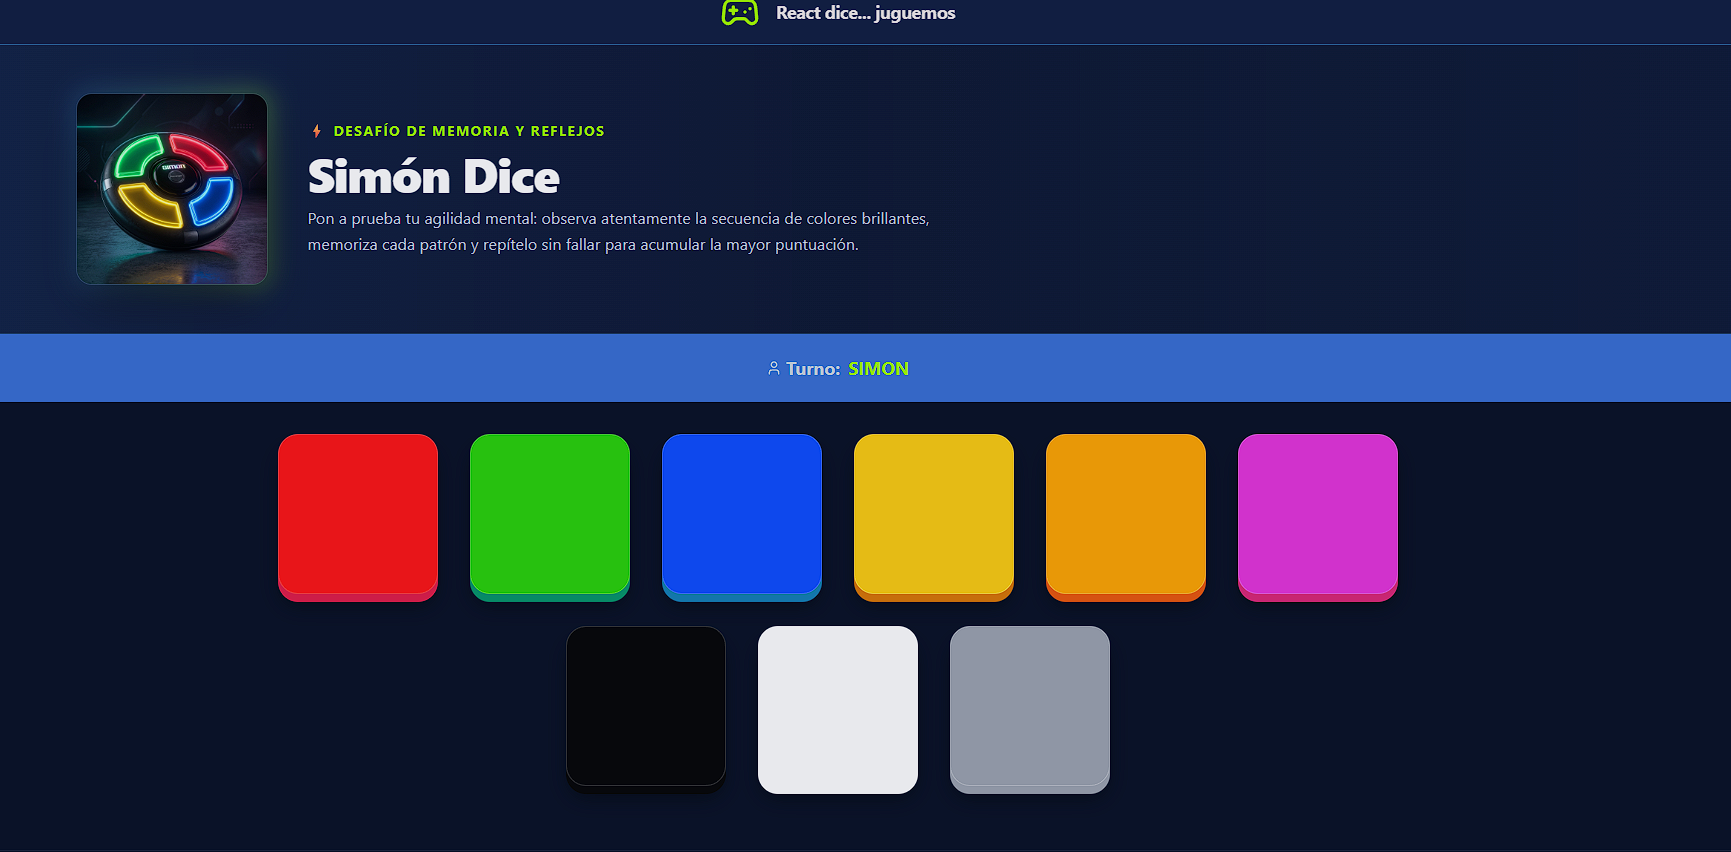
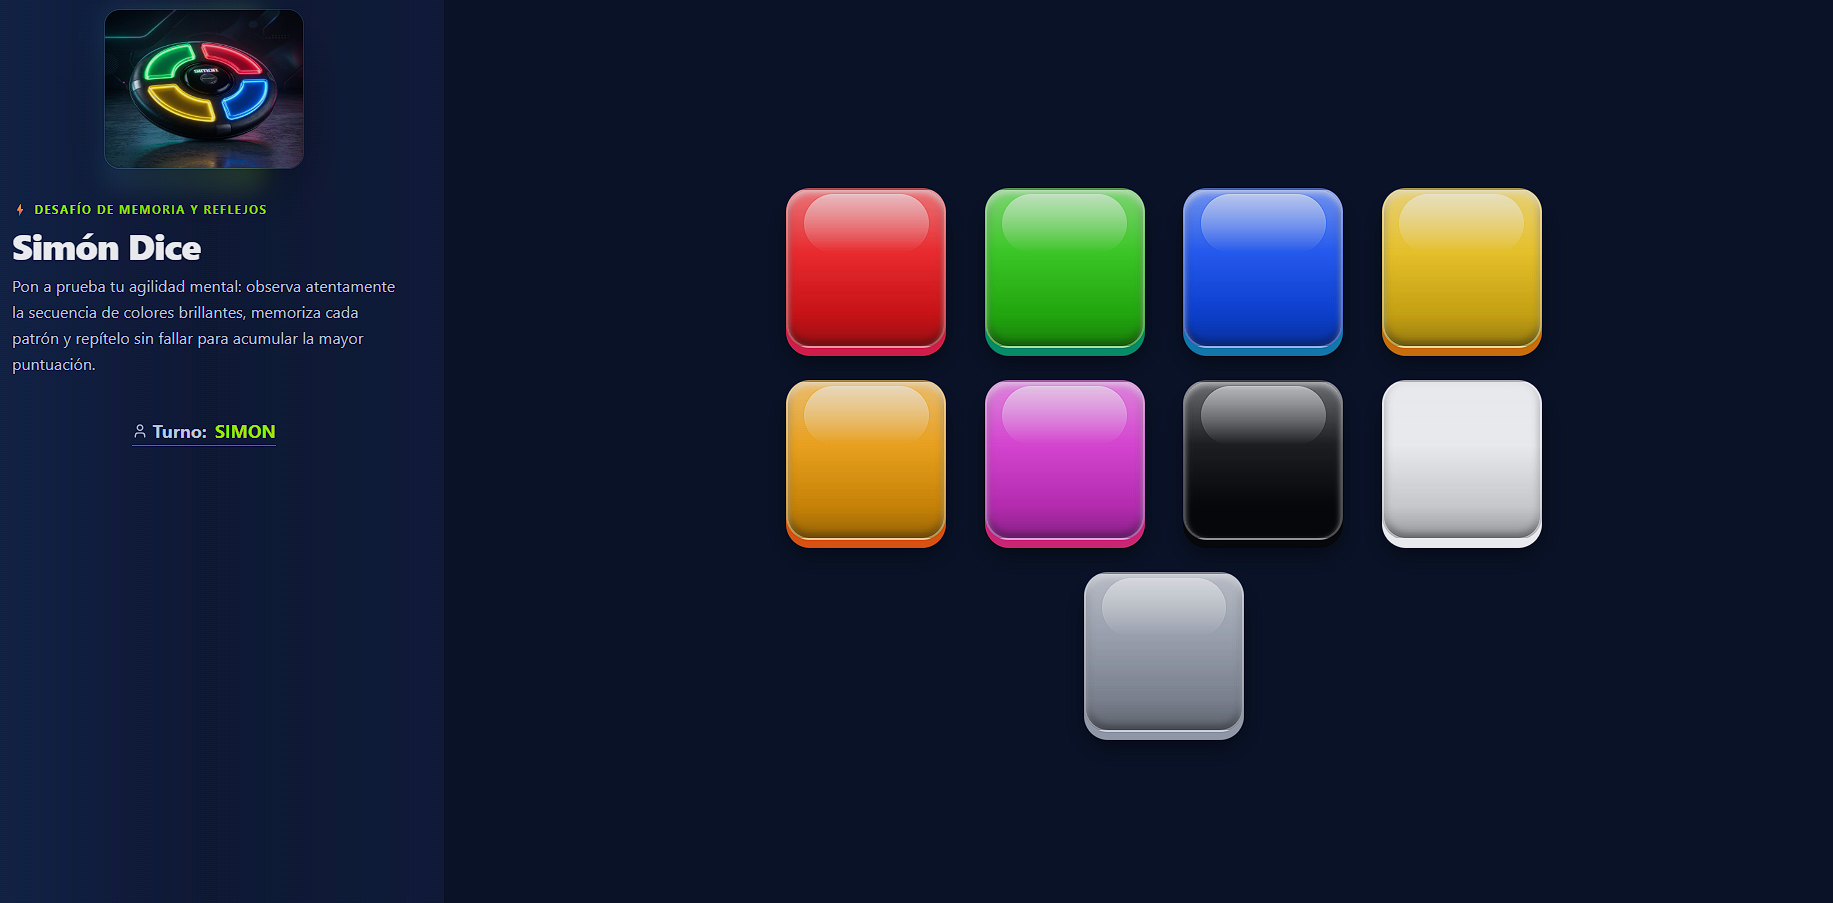
update a proyecto en botones, y responsive

diff --git a/src/App.tsx b/src/App.tsx
@@ -1,5 +1,3 @@
-import { Navbar } from '@/components/Navbar';
-import { Footer } from '@/components/Footer';
 import Game from './components/Game';
 import { useGameContext } from '@/store/GameContext'
 
@@ -12,64 +10,72 @@ export function App() {
 
 
   return (
-    <div className="min-h-screen bg-primary-dark text-slate-100 selection:bg-blue-500 selection:text-white flex flex-col">
-      <Navbar />
+    <>
 
-      {/* HERO */}
-      <section className="relative overflow-hidden bg-linear-to-r from-quaternary/20 via-primary/40 to-quaternary/10 border-b border-secondary/30 px-[5%] md:px-[10%] py-8 md:py-12 flex flex-col md:flex-row items-center gap-6 md:gap-10">
-        <figure className="relative shrink-0 group">
-          <div className="absolute -inset-1 rounded-2xl bg-linear-to-r from-secondary to-tertiary opacity-30 blur-md group-hover:opacity-60 transition duration-500" />
-          <img
-            src={simondiceimage}
-            alt="Simón Dice Juego de Memoria"
-            className="relative w-36 h-36 sm:w-44 sm:h-44 md:w-48 md:h-48 object-cover rounded-2xl border border-white/10 shadow-2xl shadow-black/60"
-          />
-        </figure>
-        <article className="flex flex-col gap-2 text-center md:text-left max-w-2xl">
-          <p className="text-xs sm:text-sm font-bold uppercase tracking-widest text-tertiary">
-            ⚡ Desafío de Memoria y Reflejos
-          </p>
-          <h1 className="text-3xl sm:text-4xl md:text-5xl font-black tracking-tight text-white drop-shadow-sm">
-            Simón Dice
-          </h1>
-          <p className="text-sm sm:text-base text-slate-300 leading-relaxed">
-            Pon a prueba tu agilidad mental: observa atentamente la secuencia de colores brillantes, memoriza cada patrón y repítelo sin fallar para acumular la mayor puntuación.
-          </p>
-        </article>
-      </section>
-      {/* INFO GAME */}
-      {
-        isGameInit && (
-          <section>
-            <div className="flex  gap-8 bg-quaternary py-5 rounded-xl justify-center">
 
-              <p
-                className="flex items-center gap-1 font-bold text-lg text-slate-300 hover:text-white transition-colors"
-              >
-                <User className='w-4 h-4' />
-                Turno: <span className="ml-1 text-tertiary uppercase">{currentPlayer?.player} </span>
+
+      <main className="lg:min-h-screen min-w-screen  grid lg:grid-cols-8 bg-primary-dark text-slate-100">
+
+        {/* HERO */}
+        <section className="lg:col-span-2 xl:col-span-2 lg:max-w-lg relative overflow-hidden bg-linear-to-r from-quaternary/20 via-primary/40 to-quaternary/10 border-b border-secondary/30 px-[5%] md:px-[10%] py-8 flex flex-col items-center gap-6 md:gap-10">
+          <section className='sm:flex gap-4 items-center lg:flex-col'>
+            <figure className="relative group flex justify-center">
+              <div className="absolute w-30 h-30 sm:w-45 sm:h-45 md:w-40 inset-0 rounded-2xl bg-linear-to-r from-secondary to-tertiary opacity-30 blur-md group-hover:opacity-60 transition duration-500" />
+              <img
+                src={simondiceimage}
+                alt="Simón Dice Juego de Memoria"
+                className="relative w-30 h-30 sm:w-45 sm:h-45 md:w-90 md:h-40 lg:w-50 rounded-2xl border border-white/10 shadow-2xl shadow-black/60"
+              />
+            </figure>
+            <article className="flex flex-col mt-4 gap-2 text-center md:text-left ">
+              <p className="text-xs  font-bold uppercase tracking-widest text-tertiary">
+                ⚡ Desafío de Memoria y Reflejos
               </p>
-              {
-                currentPlayer?.player != 'simon' &&
-                <p
-                  className="flex items-center gap-1 text-lg font-bold text-slate-300 hover:text-white transition-colors"
-                >
-                  <Trophy className='w-4 h-4' />
-                  Puntos: <span className="ml-1 text-tertiary">{currentPlayer?.points} </span>
-                </p>
-              }
-            </div>
+              <h1 className="text-3xl sm:text-4xl  font-black tracking-tight text-white drop-shadow-sm">
+                Simón Dice
+              </h1>
+              <p className="hidden md:block text-sm sm:text-base text-slate-300 leading-relaxed">
+                Pon a prueba tu agilidad mental: observa atentamente la secuencia de colores brillantes, memoriza cada patrón y repítelo sin fallar para acumular la mayor puntuación.
+              </p>
+            </article>
           </section>
+          {/* INFO GAME */}
+          {
+            isGameInit && (
+              <section>
+                <div className="flex lg:flex-col xl:flex-row gap-8 bg-quinary  justify-center border-b border-tertiary/50">
 
-        )
-      }
+                  <p
+                    className="flex items-center gap-1 font-bold text-lg text-slate-300 hover:text-white transition-colors"
+                  >
+                    <User className='w-4 h-4' />
+                    Turno: <span className="ml-1 text-tertiary uppercase">{currentPlayer?.player} </span>
+                  </p>
+                  {
+                    currentPlayer?.player != 'simon' &&
+                    <p
+                      className="flex items-center gap-1 text-lg font-bold text-slate-300 hover:text-white transition-colors"
+                    >
+                      <Trophy className='w-4 h-4' />
+                      Puntos: <span className="ml-1 text-tertiary">{currentPlayer?.points} </span>
+                    </p>
+                  }
+                </div>
+              </section>
 
-      <main className="max-w-7xl mx-auto px-4 sm:px-6 lg:px-8 flex-1 w-full">
-        <Game />
+            )
+          }
+        </section>
+
+        <section className="h-full lg:col-span-6 xl:col-span-6 mx-autow-full flex items-center justify-center ">
+
+          <Game />
+        </section>
+
       </main>
 
-      <Footer />
-    </div>
+
+    </>
   )
 }
 

diff --git a/src/components/PlaceholderIniti.tsx b/src/components/PlaceholderIniti.tsx
@@ -31,41 +31,45 @@ const PlaceholderInit = () => {
 
     return (
         <>
-            <section className='flex flex-col gap-3  w-90% md:w-[90%] mx-auto mt-4'>
-                <div className='flex flex-col gap-2'>
-                    <label className='font-bold text-xl text-center'>Selecciona una dificultad</label>
-                    <select className='bg-primary text-light text-center p-2 rounded-xl w-[80%] md:w-[30%] mx-auto'
-                        defaultValue={'normal'}
-                        onChange={(e) => setLevel(e.target.value as Level)}
-                    >
-                        <option value="easy">Fácil</option>
-                        <option value="normal">Normal</option>
-                        <option value="hard">Dificil</option>
-                        <option value="crazy">Crazy</option>
-                    </select>
-                </div>
+            <section className='flex flex-col gap-3 md:gap-5  mx-auto mt-4'>
+
+                <div className='md:flex justify-center gap-4 md:gap-8 items-center min-w-30 md:min-w-110 '>
+
+                    <div className='flex flex-col gap-2 w-full '>
+                        <label className='font-bold text-xl text-center'>Dificultad</label>
+                        <select className='bg-primary border border-light focus:border-tertiary italic font-bold text-light text-center p-2 rounded-xl mx-auto w-full'
+                            defaultValue={'normal'}
+                            onChange={(e) => setLevel(e.target.value as Level)}
+                        >
+                            <option value="easy">Fácil</option>
+                            <option value="normal">Normal</option>
+                            <option value="hard">Dificil</option>
+                            <option value="crazy">Crazy</option>
+                        </select>
+                    </div>
 
 
-                <div className='flex flex-col gap-2'>
-                    <label className='font-bold text-xl text-center'>¿Cuántos jugadores participarán?</label>
-                    <select className='bg-primary text-light text-center p-2 rounded-xl w-[80%] md:w-[30%] mx-auto'
-                        onChange={(e) => setPlayersNumber(Number(e.target.value))}
-                    >
-                        <option value="1">1</option>
-                        <option value="2">2</option>
-                        <option value="3">3</option>
-                        <option value="4">4</option>
-                    </select>
+                    <div className='flex flex-col gap-2 mx-auto w-full'>
+                        <label className='font-bold text-xl text-center'>Jugadores</label>
+                        <select className='bg-primary border border-light focus:border-tertiary italic font-bold  text-light text-center p-2 rounded-xl w-full mx-auto'
+                            onChange={(e) => setPlayersNumber(Number(e.target.value))}
+                        >
+                            <option value="1">1</option>
+                            <option value="2">2</option>
+                            <option value="3">3</option>
+                            <option value="4">4</option>
+                        </select>
+                    </div>
                 </div>
 
                 <div className='flex flex-col gap-2'>
                     <label className='font-bold text-xl text-center'>{playersNumber > 1 ? 'Ingresen sus nombres' : 'Ingresa tu nombre'} </label>
-                    <div className={`grid grid-cols-1 lg:grid-cols-${playersNumber} gap-4 mx-auto`}>
+                    <div className={`grid grid-cols-1 md:grid-cols-${playersNumber == 1 ? 1 : 2} gap-4 mx-auto`}>
                         {
                             playersNumber > 0 && Array.from({ length: playersNumber }).map((_, idx) => (
                                 <span className='mt-3 relative ' key={idx}>
-                                    <User className='w-4 h-4 top-3 left-1 absolute text-tertiary' />
-                                    <input type="text" value={playersInfo[idx]?.player || ''} onChange={(e) => saveName(e, idx)} placeholder={`Nombre jugador ${idx + 1}`} className='border border-secondary rounded-lg  pl-5 px-2 py-2 text-light text-center bg-primary outline-tertiary' />
+                                    <User className='w-4 h-4 top-3 left-3 absolute text-tertiary' />
+                                    <input type="text" value={playersInfo[idx]?.player || ''} onChange={(e) => saveName(e, idx)} placeholder={`Nombre jugador ${idx + 1}`} className='border border-light focus:border-tertiary rounded-lg  pl-8 pr-2 py-2 text-light text-center italic bg-primary outline-none' />
                                 </span>
                             ))
                         }
@@ -77,7 +81,7 @@ const PlaceholderInit = () => {
 
 
                 <div className=''>
-                    <button className='group mx-auto active:scale-95 outline-none mt-5 bg-primary cursor-pointer transition-all hover:bg-tertiary/80 hover:text-primary border-2 border-tertiary font-bold py-2 px-4 flex items-center gap-2  rounded-xl' onClick={() => handleValidateForm()} > <Gamepad2 className='w-4 h-4 text-tertiary group-hover:text-primary   ' />  Jugar </button>
+                    <button className='group mx-auto active:scale-95 outline-none mt-5 bg-quinary/50 cursor-pointer transition-all hover:bg-tertiary/80 hover:text-primary border border-tertiary font-bold py-2 px-8 flex items-center gap-2  rounded-md' onClick={() => handleValidateForm()} > <Gamepad2 className='w-4 h-4 text-tertiary group-hover:text-primary   ' />  Jugar </button>
                 </div>
 
             </section>

diff --git a/src/styles/index.css b/src/styles/index.css
@@ -46,7 +46,7 @@
 }
 
 /* 3D Simon Button Effects */
-.button-simon {
+/* .button-simon {
   position: relative;
   border-radius: 1.25rem;
   border: 1px solid rgba(255, 255, 255, 0.2);
@@ -77,7 +77,90 @@
   filter: brightness(1.7) saturate(1.3) !important;
   border-color: rgba(255, 255, 255, 0.85) !important;
   transition: transform 0.12s ease, box-shadow 0.12s ease, filter 0.12s ease !important;
+} */
+
+
+/* =========================================================
+   OPCIÓN 1: ARCADE GLOSSY 3D (Cúpula con reflejo de luz)
+   ========================================================= */
+.button-simon {
+  position: relative;
+  border-radius: 1.5rem;
+  cursor: pointer;
+  outline: none;
+  user-select: none;
+  overflow: hidden;
+  background-color: var(--btn-color);
+  /* Biseles de luz superior e inferior para volumen real */
+  background-image: linear-gradient(180deg,
+      rgba(255, 255, 255, 0.45) 0%,
+      rgba(255, 255, 255, 0.1) 40%,
+      rgba(0, 0, 0, 0.15) 80%,
+      rgba(0, 0, 0, 0.35) 100%);
+  border: 2px solid rgba(255, 255, 255, 0.3);
+  box-shadow:
+    inset 0 3px 6px rgba(255, 255, 255, 0.6),
+    inset 0 -4px 8px rgba(0, 0, 0, 0.4),
+    0 8px 0 var(--btn-shadow),
+    0 16px 24px rgba(0, 0, 0, 0.55);
+  transform: translateY(0);
+  transition: transform 0.12s cubic-bezier(0.34, 1.56, 0.64, 1),
+    box-shadow 0.12s ease,
+    filter 0.15s ease;
+
+  /* Destello de brillo elíptico en la parte superior */
+  &::before {
+    content: '';
+    position: absolute;
+    top: 4px;
+    left: 10%;
+    right: 10%;
+    height: 38%;
+    border-radius: 9999px;
+    background: linear-gradient(180deg, rgba(255, 255, 255, 0.6) 0%, rgba(255, 255, 255, 0) 100%);
+    pointer-events: none;
+    transition: opacity 0.15s ease;
+  }
+
+  &:hover {
+    filter: brightness(1.1);
+    transform: translateY(-3px);
+    box-shadow:
+      inset 0 3px 6px rgba(255, 255, 255, 0.7),
+      inset 0 -4px 8px rgba(0, 0, 0, 0.4),
+      0 11px 0 var(--btn-shadow),
+      0 20px 28px rgba(0, 0, 0, 0.6);
+  }
+
+  &:active {
+    transform: translateY(6px);
+    box-shadow:
+      inset 0 2px 4px rgba(255, 255, 255, 0.3),
+      inset 0 -2px 6px rgba(0, 0, 0, 0.5),
+      0 2px 0 var(--btn-shadow),
+      0 6px 12px rgba(0, 0, 0, 0.4);
+    filter: brightness(1.2);
+  }
 }
+
+.active-btn {
+  transform: translateY(6px) scale(0.97) !important;
+  border-color: rgba(255, 255, 255, 0.95) !important;
+  box-shadow:
+    inset 0 0 20px rgba(255, 255, 255, 0.9),
+    inset 0 0 35px var(--btn-color),
+    0 2px 0 var(--btn-shadow),
+    0 0 30px var(--btn-color),
+    0 0 60px var(--btn-color) !important;
+  filter: brightness(1.8) saturate(1.4) !important;
+  transition: all 0.1s ease !important;
+
+  &::before {
+    opacity: 0.9;
+    background: linear-gradient(180deg, #ffffff 0%, rgba(255, 255, 255, 0.4) 100%) !important;
+  }
+}
+
 
 .button-simon-red {
   --btn-color: var(--color-red);

diff --git a/src/components/Game.tsx b/src/components/Game.tsx
@@ -62,7 +62,7 @@ const Game = () => {
 
         if (playersInfo.length == 2) { // DOS, YA QUE SI SOLO ES UN JUGADOR, PLAYERS TIENE DOS: MACHINE Y JUGADOR
             title = '¡Oops! Fallaste ' + currentPlayer?.player + ' 😪'
-            text = `Lograste hacer ${currentPlayer?.points} puntos. 🎉`
+            text = `Lograste hacer ${currentPlayer?.points} puntos. ${currentPlayer?.points > 1 ? ' 🎉' : ''}`
         }
         else if (playersInfo.length == 3) { // DOS O MÁS JUGADORES MÁS MACHINE...
             title = isTie ?
@@ -187,7 +187,7 @@ const Game = () => {
     const createButtonColor = (color: Colors) => {
 
         return (
-            <button key={color} id={`btn-${color}`} className={`button-simon button-simon-${color} w-20 sm:w-30 md:w-40 max-w-40 h-20 sm:h-30 md:h-40 lg:h-40`}
+            <button key={color} id={`btn-${color}`} className={`button-simon button-simon-${color} w-25 sm:w-30 md:w-40 max-w-40 h-25 sm:h-30 md:h-40 lg:h-40`}
                 onClick={(e) => {
 
 
@@ -212,7 +212,9 @@ const Game = () => {
                 isGameInit && (
 
                     <section>
-                        <div className="flex flex-wrap justify-center items-center mx-auto gap-8 mt-8 ">
+                        {/* <div className="grid grid-cols-2 sm:grid-cols-3 gap-4 md:gap-8 mt-8 w-fit mx-auto"> */}
+                        <div className="flex flex-wrap justify-evenly gap-4 md:gap-8 mt-8 w-fit mx-auto lg:max-w-xl xl:max-w-3xl">
+
                             {
                                 colorsByLevel[level].map((color) => (
                                     createButtonColor(color)

diff --git a/src/store/GameContext.tsx b/src/store/GameContext.tsx
@@ -38,9 +38,9 @@ interface GameProviderI {
 }
 
 const colorsByLevel: Record<Level, Colors[]> = {
-    'easy': ['red', 'green', 'blue'],
-    'normal': ['red', 'green', 'blue', 'yellow'],
-    'hard': ['red', 'green', 'blue', 'yellow', 'orange', 'pink'],
+    'easy': ['red', 'green', 'blue', 'yellow'],
+    'normal': ['red', 'green', 'blue', 'yellow', 'orange'],
+    'hard': ['red', 'green', 'blue', 'yellow', 'orange', 'pink', 'black'],
     'crazy': ['red', 'green', 'blue', 'yellow', 'orange', 'pink', 'black', 'white', 'gray']
 };
 
